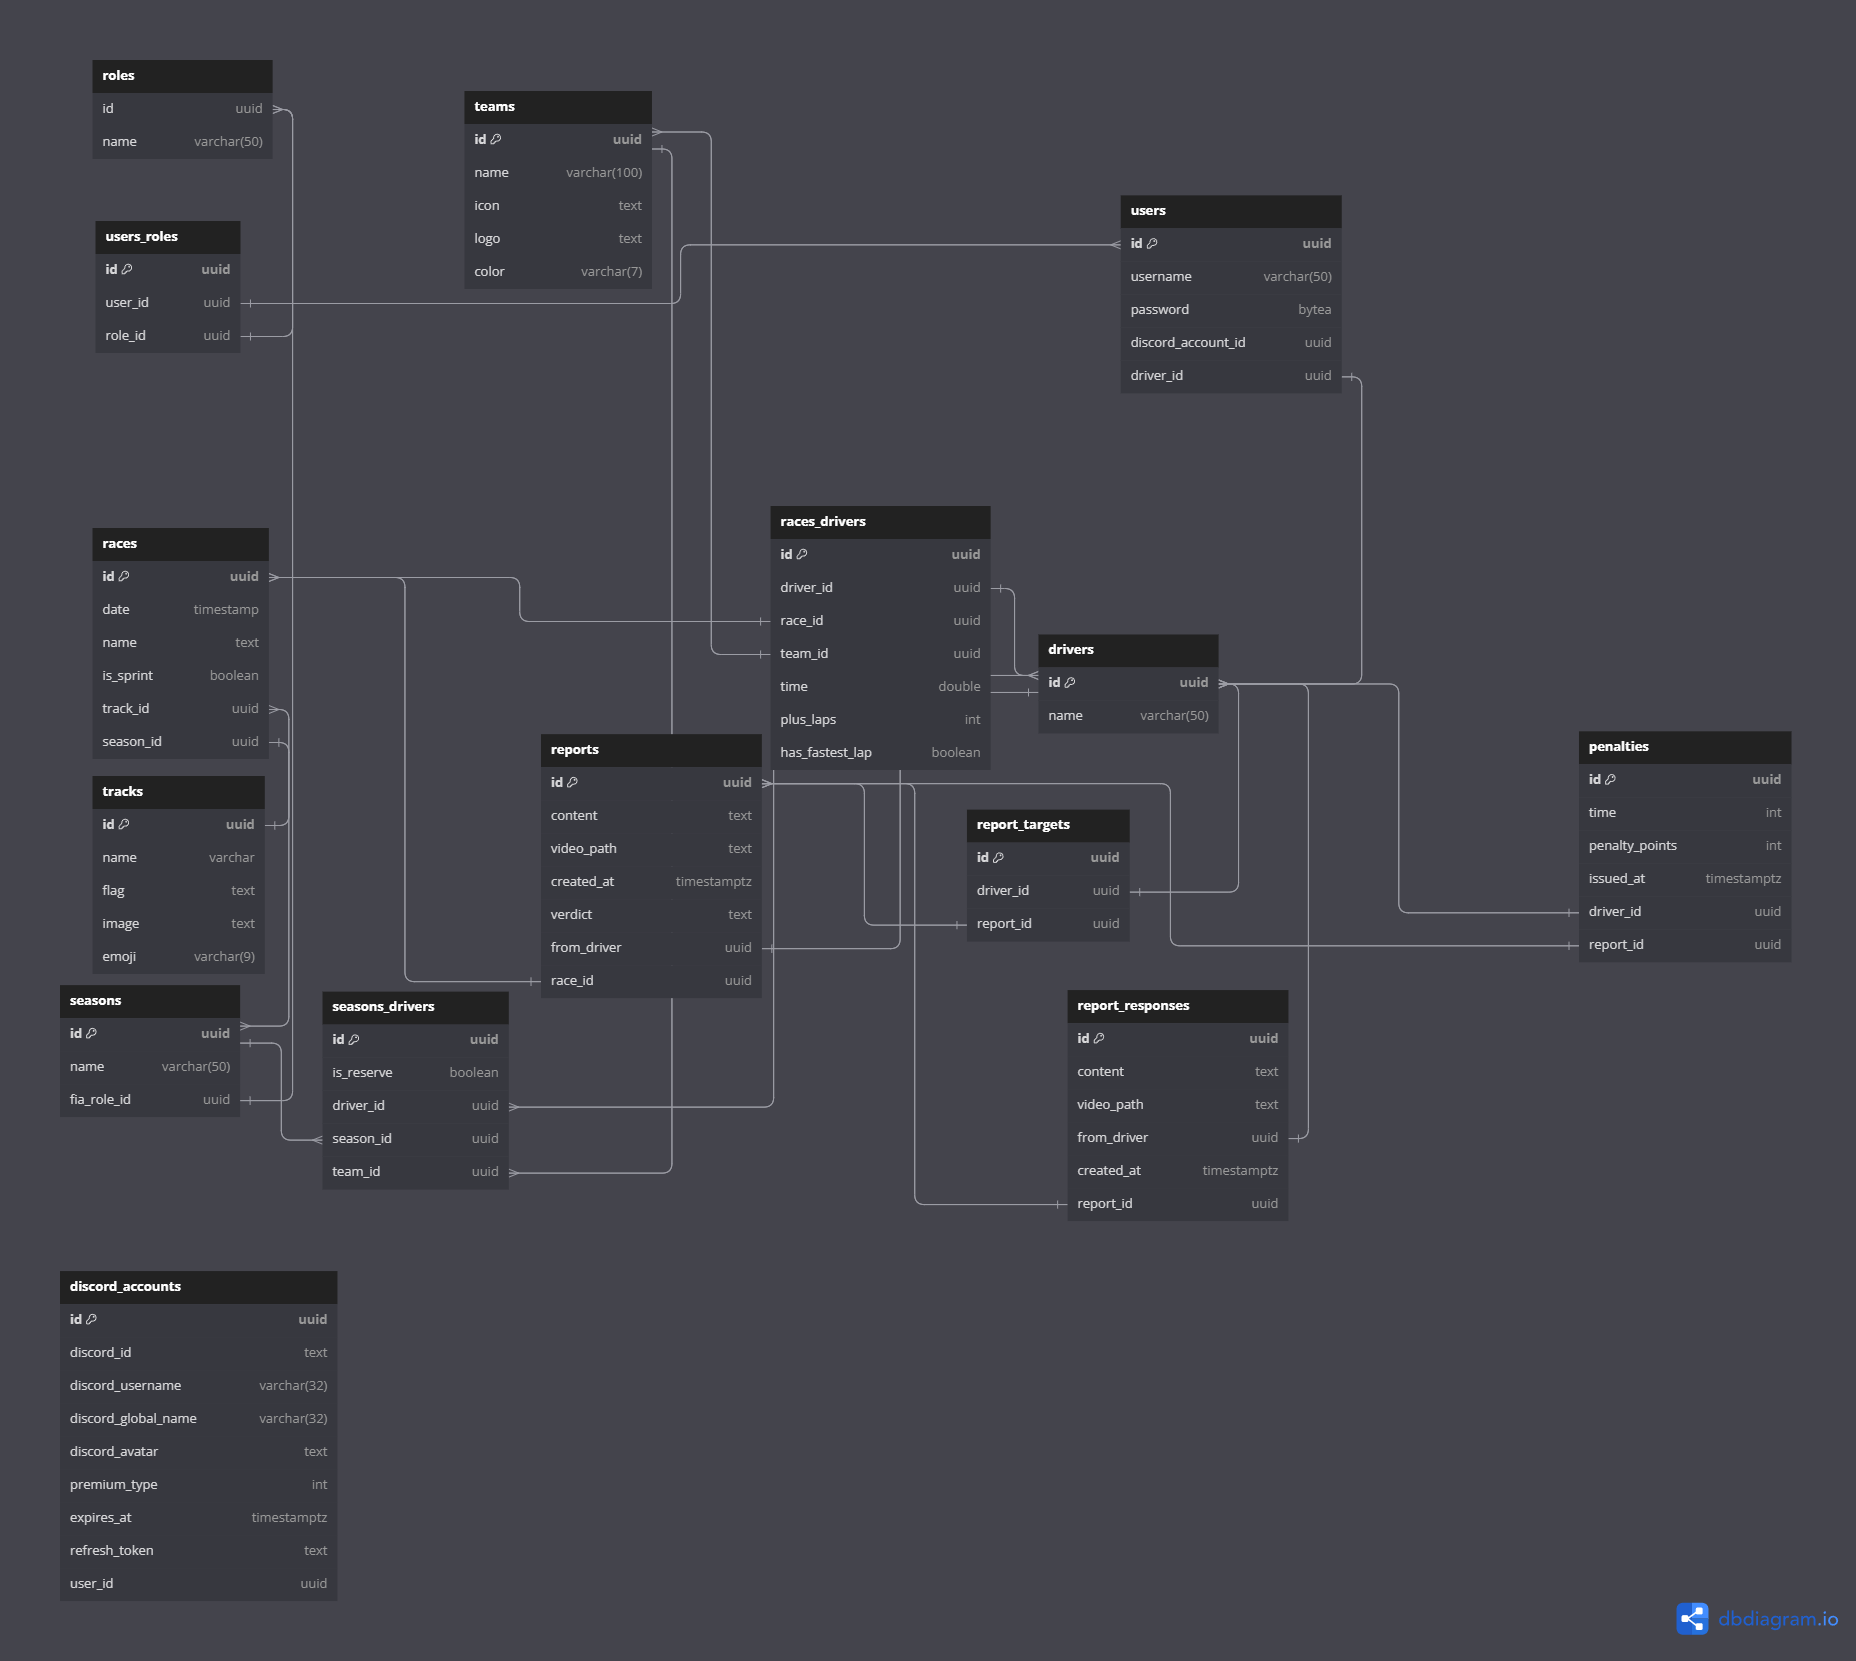
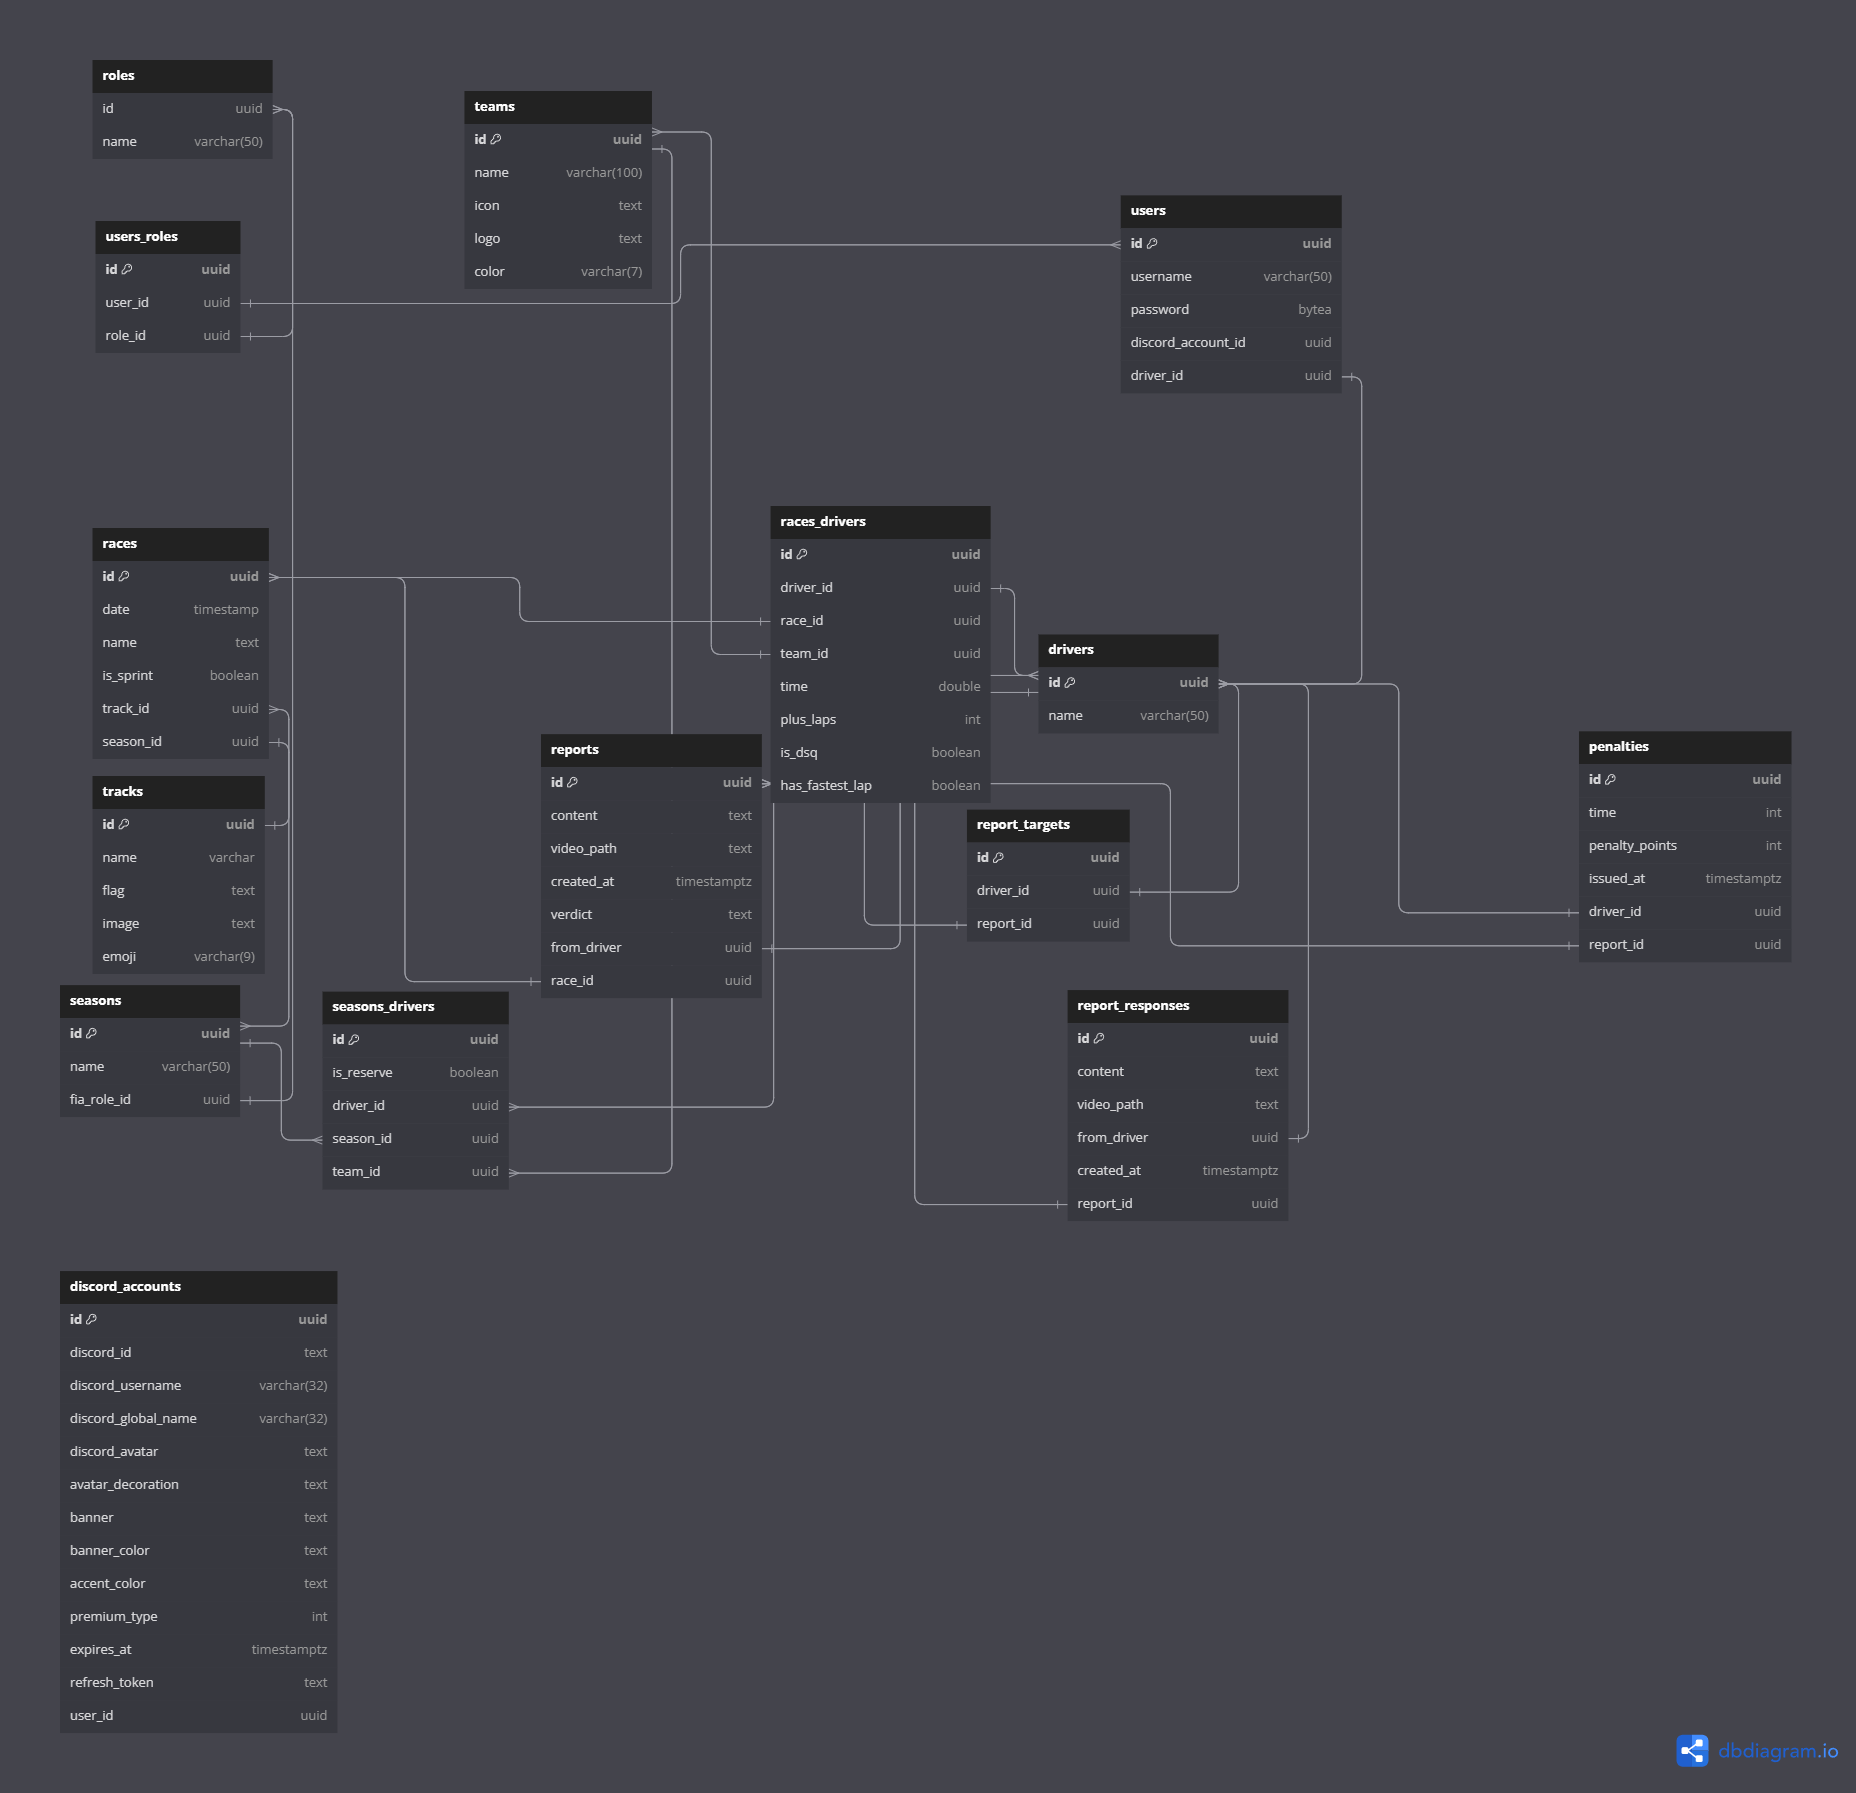
saving more information from discord API

diff --git a/myapp/discord/user_discord.py b/myapp/discord/user_discord.py
@@ -25,6 +25,7 @@ def save_user_discord(params: UserDiscordParams):
     try:
         access_token_response = exchange_code(params['code'])
         user_data = get_user_data(access_token_response['access_token'])
+        print(access_token_response)
         print(user_data)
     except Exception:
         return HttpResponseServerError(json.dumps({"error": "Nepodarilo sa získať dáta z discordu."}))
@@ -34,13 +35,14 @@ def save_user_discord(params: UserDiscordParams):
     premium_type = user_data['premium_type'] if user_data['premium_type'] is not None else 0
 
     database_data = [user_data['id'], user_data['username'], user_data['global_name'], user_data['avatar'], access_token_response['expires_in'], 
-        access_token_response['refresh_token'], params['userID'], premium_type]
+        access_token_response['refresh_token'], params['userID'], premium_type, user_data['accent_color'], user_data['banner'], 
+        user_data['banner_color'], user_data['avatar_decoration']]
 
     try:
         c.execute("""
-            INSERT INTO discord_accounts (discord_id, discord_username, discord_global_name, discord_avatar, expires_at, refresh_token, user_id, premium_type)
+            INSERT INTO discord_accounts (discord_id, discord_username, discord_global_name, discord_avatar, expires_at, refresh_token, user_id, premium_type, accent_color, banner, banner_color, avatar_decoration)
             VALUES
-                (%s, %s, %s, %s, NOW() + make_interval(secs := %s), %s, %s, %s)
+                (%s, %s, %s, %s, NOW() + make_interval(secs := %s), %s, %s, %s, %s, %s, %s, %s)
             RETURNING id
         """, database_data)
 
@@ -67,6 +69,9 @@ def save_user_discord(params: UserDiscordParams):
 
 
 def get_user_discord(userID: str):
+    if userID == 'undefined':
+        return HttpResponseNotFound()
+
     try:
         user = Users.objects.select_related('discord_account').get(id = userID)
 
